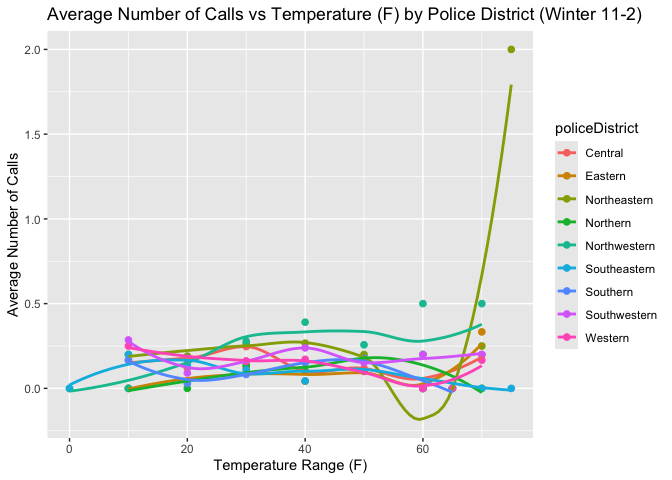
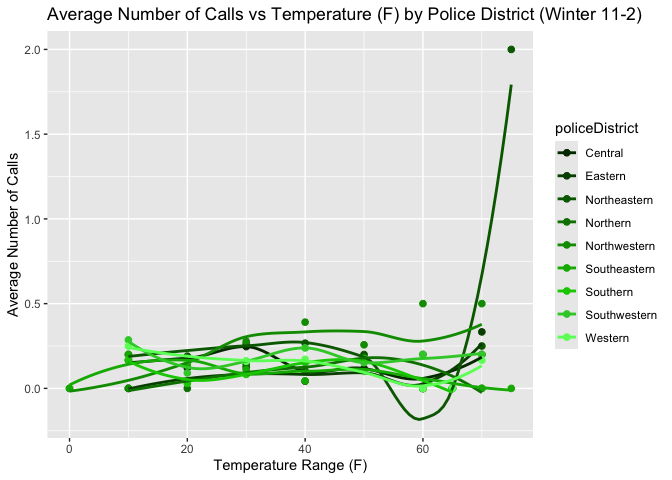
11-12-2024 Fixed error on the GitHub-Flavored Markdown page.

diff --git a/README.md b/README.md
@@ -1,7 +1,7 @@
 # How does high tempuratures affect mental health in Baltimore City?
 
 
-For installing packages:
+This code segment is for installing packages:
 
 ``` r
 install.packages("tidyverse")
@@ -10,7 +10,7 @@ install.packages("kableExtra")
 install.packages("terra")
 ```
 
-The packages we will be using:
+These are the packages we will be using:
 
 ``` r
 library("tidyverse")
@@ -18,9 +18,9 @@ library("kableExtra")
 library("terra")
 ```
 
-Opening the csv file and storing the contents in a dataframe df.
-
-4 additional columns are created for call_bin, date, month. dow.
+This code segment is for opening the csv file and storing the contents
+in a dataframe df. 4 additional columns are created for call_bin, date,
+month. dow.
 
 ``` r
 df<-read.csv("panel.csv")
@@ -32,7 +32,7 @@ df2<-df %>%
   mutate(dow = weekdays(date))
 ```
 
-The first 10 rows of the dataframe to the reader.
+The table below shows the first ten observations of our data frame.
 
 ``` r
 kable(head(df2))
@@ -136,7 +136,9 @@ The cross-sectional unit of this data frame is the Police district.
 
 The column the treatment variable of interest in temp_F.
 
-The column that represnts the outcome variable of interest is call_bin.
+The column that represents the outcome variable of interest is call_bin.
+
+This code block displays all of the variables in df2.
 
 ``` r
 names(df2)
@@ -146,7 +148,13 @@ names(df2)
     [5] "temp_F"         "call_bin"       "year"           "month"         
     [9] "dow"           
 
-This displays all of the variables in df2.
+Shows 2 scatter plots split by winter and summer. Compares the average
+number of calls received with the temperature by police district.
+
+First scatter plot represents the relationship between the temperature
+and the amount of calls received based on the police districts during
+winter. Second scatter plot represents the same relationship but for the
+summer.
 
 ``` r
 # histogram or scatterplots
@@ -203,9 +211,12 @@ summer_df <- df2 %>%
 
 ``` r
 # Scatter plot -winter
+greenPalette <- c("#003300", "#004d00", "#006600", "#008000", "#009900", "#00b300", "#00cc00", "#33cc33", "#66ff66")
+
 ggplot(winter_df, aes(x = tempCatagories, y = avg_calls, color = policeDistrict)) + 
   geom_point(size = 2) + 
   geom_smooth(se = FALSE) +
+  scale_color_manual(values = greenPalette) +
   labs(title = "Average Number of Calls vs Temperature (F) by Police District (Winter 11-2)",
        x = "Temperature Range (F)", 
        y = "Average Number of Calls")
@@ -220,6 +231,8 @@ ggplot(winter_df, aes(x = tempCatagories, y = avg_calls, color = policeDistrict)
 ggplot(summer_df, aes(x = tempCatagories, y = avg_calls, color = policeDistrict)) + 
   geom_point(size = 2) + 
   geom_smooth(se = FALSE) +
+  scale_color_manual(values = greenPalette) +
+  #scale_color_manual(values = c("#006400", "#228B22", "#32CD32", "#7FFF00", "#ADFF2F")) +
   labs(title = "Average Number of Calls vs Temperature (F) by Police District (Summer 4-9)",
        x = "Temperature Range (F)", 
        y = "Average Number of Calls")
@@ -279,8 +292,7 @@ ggplot(df_summer, aes(x = tempCatagories, y = total_callscount)) +
 
 ![](README_files/figure-commonmark/unnamed-chunk-6-4.png)
 
-Shows 2 scatter plots split by winter and summer. Compares the average
-number of calls received with the temperature by police district.  
+  
   
 
[1 lines of base64/hex data omitted]
@@ -343,20 +355,24 @@ Data Description:
 
 Fixed effects:
 
-Police district: controls for better or worse conditions in the city
+- Police district: controls for better or worse conditions in the city
 
-DOW: controls any differences that might have occurred one day to
-another
+- DOW: controls any differences that might have occurred one day to
+  another
 
-Month: controls any differences that might have occurred one month to
-another
+- Month: controls any differences that might have occurred one month to
+  another
 
-Year: controls any differences that might have occurred one year to
-another
+- Year: controls any differences that might have occurred one year to
+  another
 
-## Question 9: What is the impact of the treatment effect once fixed effects are included?
+## 
 
-Answer:
+The following code segments create new column holiday_bin is created
+which represents whether there was a school holiday or or not.
+Additionally, they create 4 regression models which help us understand
+the effect temperature and holidays play on mental health calls. We
+split these models for the winter and summer.
 
 ``` r
 #install.packages("lfe")
@@ -399,7 +415,6 @@ df3<-df2 %>%
   mutate(temp_70_75=ifelse(temp_F> 70 & temp_F<=75, 1, 0)) %>%
   mutate(temp_65_70=ifelse(temp_F> 65 & temp_F<=70, 1, 0)) %>%
   mutate(temp_60_65=ifelse(temp_F> 60 & temp_F<=65, 1, 0)) %>%
-  
   mutate(temp_55_60=ifelse(temp_F> 55 & temp_F<=60, 1, 0)) %>%
   mutate(temp_50_55=ifelse(temp_F> 50 & temp_F<=55, 1, 0)) %>%
   mutate(temp_45_50=ifelse(temp_F> 45 & temp_F<=50, 1, 0)) %>%
@@ -407,7 +422,6 @@ df3<-df2 %>%
   mutate(temp_35_40=ifelse(temp_F> 35 & temp_F<=40, 1, 0)) %>%
   mutate(temp_30_35=ifelse(temp_F> 30 & temp_F<=35, 1, 0)) %>%
   mutate(temp_25_30=ifelse(temp_F> 25 & temp_F<=30, 1, 0)) %>%
-  
   mutate(temp_20_25=ifelse(temp_F> 20 & temp_F<=25, 1, 0)) %>%
   mutate(temp_15_20=ifelse(temp_F> 15 & temp_F<=20, 1, 0)) %>%
   mutate(temp_10_15=ifelse(temp_F> 10 & temp_F<=15, 1, 0)) %>%
@@ -485,30 +499,32 @@ summary(model2)
     -0.43581 -0.16850 -0.11614 -0.05802  1.01332 
 
     Coefficients:
-                   Estimate Std. Error t value Pr(>|t|)
-    temp_over_100       NaN         NA     NaN      NaN
-    temp_95_100         NaN         NA     NaN      NaN
-    temp_90_95          NaN         NA     NaN      NaN
-    temp_85_90          NaN         NA     NaN      NaN
-    temp_80_85          NaN         NA     NaN      NaN
-    temp_75_80    0.4871404  0.3464731   1.406    0.160
-    temp_70_75    0.2081637  0.2536312   0.821    0.412
-    temp_65_70    0.0070556  0.2636326   0.027    0.979
-    temp_60_65    0.1415237  0.2521563   0.561    0.575
-    temp_55_60    0.1688138  0.2477403   0.681    0.496
-    temp_50_55    0.2027984  0.2466866   0.822    0.411
-    temp_45_50    0.1674739  0.2461849   0.680    0.496
-    temp_40_45    0.1986085  0.2459097   0.808    0.419
-    temp_35_40    0.1828429  0.2457628   0.744    0.457
-    temp_30_35    0.1895035  0.2456725   0.771    0.441
-    temp_25_30    0.1825487  0.2461445   0.742    0.458
-    temp_20_25    0.0672610  0.2505244   0.268    0.788
-    temp_15_20    0.1051526  0.2536099   0.415    0.678
-    temp_10_15    0.3663631  0.2606882   1.405    0.160
-    temp_5_10           NaN         NA     NaN      NaN
-    temp_0_5            NaN         NA     NaN      NaN
-    temp_under_0        NaN         NA     NaN      NaN
-    holiday_bin   0.0006408  0.0228495   0.028    0.978
+                    Estimate Std. Error t value Pr(>|t|)  
+    temp_over_100        NaN         NA     NaN      NaN  
+    temp_95_100          NaN         NA     NaN      NaN  
+    temp_90_95           NaN         NA     NaN      NaN  
+    temp_85_90           NaN         NA     NaN      NaN  
+    temp_80_85           NaN         NA     NaN      NaN  
+    temp_75_80           NaN         NA     NaN      NaN  
+    temp_70_75    -0.2789767  0.2530253  -1.103   0.2704  
+    temp_65_70    -0.4800848  0.2631810  -1.824   0.0683 .
+    temp_60_65    -0.3456167  0.2520320  -1.371   0.1704  
+    temp_55_60    -0.3183266  0.2480381  -1.283   0.1995  
+    temp_50_55    -0.2843420  0.2471783  -1.150   0.2501  
+    temp_45_50    -0.3196665  0.2464080  -1.297   0.1947  
+    temp_40_45    -0.2885319  0.2463205  -1.171   0.2416  
+    temp_35_40    -0.3042975  0.2463253  -1.235   0.2169  
+    temp_30_35    -0.2976369  0.2466040  -1.207   0.2276  
+    temp_25_30    -0.3045917  0.2470367  -1.233   0.2177  
+    temp_20_25    -0.4198794  0.2513296  -1.671   0.0950 .
+    temp_15_20    -0.3819878  0.2549112  -1.499   0.1342  
+    temp_10_15    -0.1207773  0.2616363  -0.462   0.6444  
+    temp_5_10     -0.4871404  0.3464731  -1.406   0.1599  
+    temp_0_5             NaN         NA     NaN      NaN  
+    temp_under_0         NaN         NA     NaN      NaN  
+    holiday_bin    0.0006408  0.0228495   0.028   0.9776  
+    ---
+    Signif. codes:  0 '***' 0.001 '**' 0.01 '*' 0.05 '.' 0.1 ' ' 1
 
     Residual standard error: 0.3449 on 1928 degrees of freedom
     Multiple R-squared(full model): 0.04744   Adjusted R-squared: 0.03015 
@@ -1410,7 +1426,7 @@ summary(model5)
     F-statistic(proj model): 0.965 on 190 and 2713 DF, p-value: 0.6191 
     *** Standard errors may be too high due to more than 2 groups and exactDOF=FALSE
 
-For the Map:
+The Map: (not done yet)
 
 ``` r
 library("terra")
@@ -1421,7 +1437,7 @@ police_districts<-vect("/Users/roshan/Downloads/UMD/Fall-2024/FIRE298/research-G
 
 police_districts$trt <- 0
 
-plot(police_districts, "trt", col=map.pal("blues"))
+plot(police_districts, "trt", col=map.pal("greens"))
 ```
 
 ![](README_files/figure-commonmark/unnamed-chunk-10-1.png)
@@ -1444,18 +1460,3 @@ Future Plans:
   - trees
 
   - air quality
-
-Step 9: Change the document format to gfm
-
-Step 10: Save this document as README.qmd
-
-Step 11: Render the document. README.md file should be created after
-this process.
-
-Step 12: Push the document back to GitHub and observe your beautiful
-document in your repository!
-
-Step 13: If your team has a complete dataframe that includes both the
-treated and outcome variable, you are done with the assignment. If not,
-make a research plan in Notion to collect data on the outcome and
-treatment variable and combine it into one dataframe.
